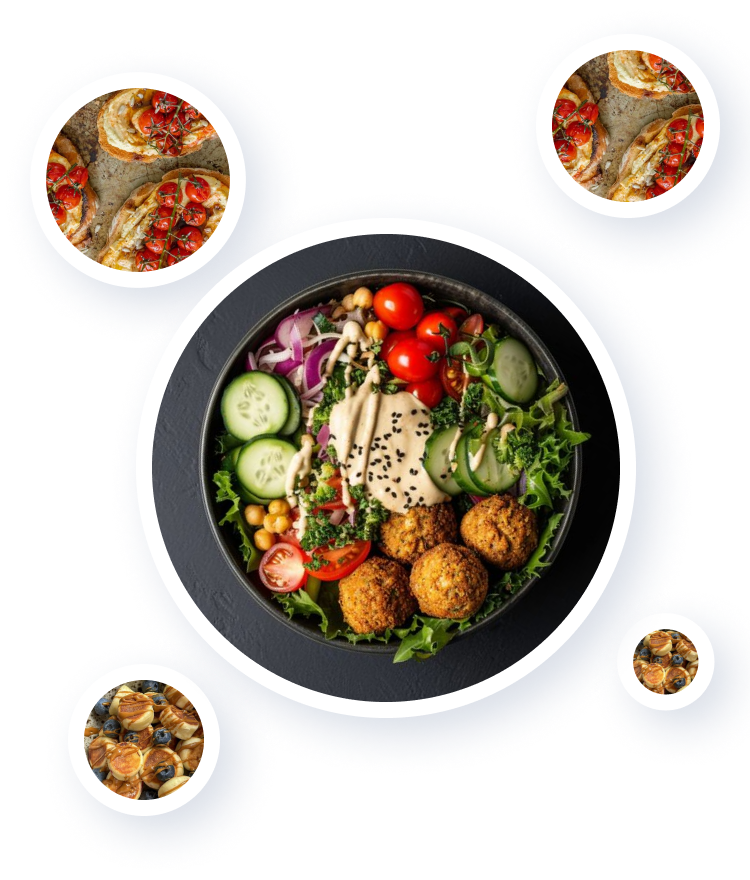
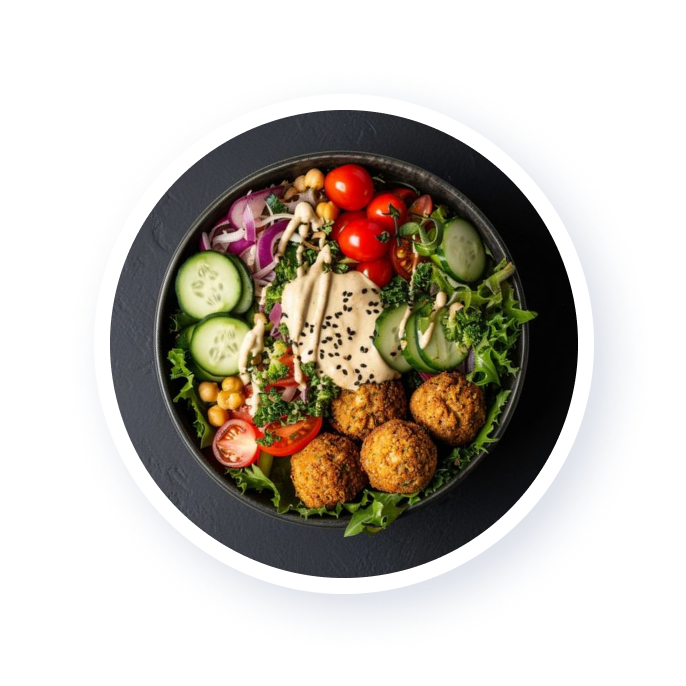
me anim

diff --git a/lib/screens/welcome_screen.dart b/lib/screens/welcome_screen.dart
@@ -1,19 +1,20 @@
 import 'package:diplom/screens/welcome_page_screen.dart';
 import 'package:flutter/material.dart';
+import 'dart:async';
 
 void main() {
-  runApp(const WelcomeScreen ());
+  runApp(const WelcomeScreen());
 }
 
-class WelcomeScreen  extends StatelessWidget {
-  const WelcomeScreen ({super.key});
+class WelcomeScreen extends StatelessWidget {
+  const WelcomeScreen({super.key});
 
   @override
   Widget build(BuildContext context) {
     return MaterialApp(
       theme: ThemeData(scaffoldBackgroundColor: const Color(0xFFFFFFFF)),
       home: const MyHomePage(title: 'Flutter Home Page'),
-         );
+    );
   }
 }
 
@@ -26,39 +27,109 @@ class MyHomePage extends StatefulWidget {
   State<MyHomePage> createState() => _MyHomePageState();
 }
 
-class _MyHomePageState extends State<MyHomePage> {
+class _MyHomePageState extends State<MyHomePage> with SingleTickerProviderStateMixin {
+  late final AnimationController _controller;
+  late final Animation<double> _animation;
+
+  @override
+  void initState() {
+    super.initState();
+
+    _controller = AnimationController(
+      duration: const Duration(seconds: 22),
+      vsync: this,
+    )..repeat();
+
+    _animation = Tween<double>(begin: 0.0, end: 2 * 3.14159).animate(_controller);
+  }
+
+  @override
+  void dispose() {
+    _controller.dispose();
+    super.dispose();
+  }
+
   @override
   Widget build(BuildContext context) {
+    final screenSize = MediaQuery.of(context).size;
+
     return Scaffold(
       body: Column(
-        mainAxisAlignment: MainAxisAlignment.end,
-        crossAxisAlignment: CrossAxisAlignment.center,
         children: [
-          const Padding(
-            padding: EdgeInsets.only(bottom: 10),
-            child: Text(
-              'Easy Cook',
-              style: TextStyle(
-                fontSize: 32.0,
-                color: Color(0xFF9FA5C0),
-                fontWeight: FontWeight.bold,
-                fontStyle: FontStyle.italic,
-                fontFamily: 'Pacifico',
+          // Сначала надпись "Easy Cook"
+          Expanded(
+            flex: 1,
+            child: Align(
+              alignment: Alignment.center,
+              child: Column(
+                mainAxisAlignment: MainAxisAlignment.center,
+                children: [
+                  const Text(
+                    'Easy Cook',
+                    style: TextStyle(
+                      fontSize: 32.0,
+                      color: Color(0xFF9FA5C0),
+                      fontWeight: FontWeight.bold,
+                      fontStyle: FontStyle.italic,
+                      fontFamily: 'Pacifico',
+                    ),
+                  ),
+                  const SizedBox(height: 20),
+                ],
               ),
             ),
           ),
-          Padding(
-            padding: const EdgeInsets.only(top: 10),
-            child: FittedBox(
-              fit: BoxFit.fill,
-              child: Image.asset('asset/image_1.png'), // replace with your image asset
+          // Затем анимации с изображениями
+          Expanded(
+            flex: 3,
+            child: Stack(
+              alignment: Alignment.center,
+              children: [
+                // Главная картинка
+                RotationTransition(
+                  turns: _animation,
+                  child: SizedBox(
+                    width: screenSize.width * 0.4,
+                    height: screenSize.width * 0.4,
+                    child: Image.asset('asset/image_1.png', fit: BoxFit.cover), // замените на свой актив
+                  ),
+                ),
+                // Вращающиеся картинки
+                Align(
+                  alignment: Alignment.bottomLeft,
+                    child: SizedBox(
+                      child: Image.asset('asset/image_2.png', fit: BoxFit.cover), // замените на свой актив
+                    ),
+                  ),
+                Align(
+                  alignment: Alignment.bottomRight,
+                    child: SizedBox(
+                      child: Image.asset('asset/image_3.png', fit: BoxFit.cover), // замените на свой актив
+                    ),
+                  ),
+                Align(
+                  alignment: Alignment.topLeft,
+                    child: SizedBox(
+                      child: Image.asset('asset/image_4.png', fit: BoxFit.cover), // замените на свой актив
+                    ),
+                  ),
+                Align(
+                  alignment: Alignment.topRight,
+                    child: SizedBox(
+                      child: Image.asset('asset/image_5.png', fit: BoxFit.cover), // замените на свой актив
+                    ),
+                  ),
+              ],
             ),
           ),
-          const Center(
+          // Внизу кнопка и дополнительный текст
+          Expanded(
+            flex: 2,
             child: Column(
+              mainAxisAlignment: MainAxisAlignment.end,
               children: [
-                Padding(
-                  padding: EdgeInsets.only(bottom: 10),
+                const Padding(
+                  padding: EdgeInsets.symmetric(vertical: 20),
                   child: Text(
                     'Start Cooking',
                     style: TextStyle(
@@ -68,11 +139,11 @@ class _MyHomePageState extends State<MyHomePage> {
                     ),
                   ),
                 ),
-
-                Padding(
-                  padding: EdgeInsets.only(top: 10),
+                const Padding(
+                  padding: EdgeInsets.symmetric(vertical: 10),
                   child: Text(
                     'Let’s join our community\n    to cook better food!',
+                    textAlign: TextAlign.center,
                     style: TextStyle(
                       fontSize: 17.0,
                       color: Color(0xFF9FA5C0),
@@ -80,34 +151,35 @@ class _MyHomePageState extends State<MyHomePage> {
                     ),
                   ),
                 ),
+                const SizedBox(height: 50.0),
+                Container(
+                  margin: const EdgeInsets.symmetric(horizontal: 15.0),
+                  width: double.infinity,
+                  child: ElevatedButton(
+                    onPressed: () {
+                      Navigator.push(
+                        context,
+                        MaterialPageRoute(builder: (context) => const WelcomePage()),
+                      );
+                    },
+                    style: ElevatedButton.styleFrom(
+                      padding: const EdgeInsets.all(25.0),
+                      backgroundColor: const Color(0xFF5E6ED8),
+                      shape: RoundedRectangleBorder(
+                        borderRadius: BorderRadius.circular(32.0),
+                      ),
+                    ),
+                    child: const Text(
+                      'Get Started',
+                      style: TextStyle(
+                        color: Color(0xFFEFF1F3),
+                        fontSize: 15.0,
+                        fontWeight: FontWeight.bold,
+                      ),
+                    ),
+                  ),
+                ),
               ],
-            ),
-          ),
-          const SizedBox(height: 50.0),
-          Container(
-            margin: const EdgeInsets.only(bottom: 40.0, left: 15.0, right: 15.0),
-            width: double.infinity,
-            child: ElevatedButton(
-              onPressed: () {
-                Navigator.push(context,
-                MaterialPageRoute(builder:
-                (context)=>const WelcomePage()));
-              },
-              style: ElevatedButton.styleFrom(
-                padding:  const EdgeInsets.all(25.0),
-                backgroundColor: const Color(0xFF5E6ED8),
-                shape: RoundedRectangleBorder(
-                  borderRadius: BorderRadius.circular(32.0),
-                ),
-              ),
-              child: const Text(
-                'Get Started',
-                style: TextStyle(
-                  color: Color(0xFFEFF1F3),
-                  fontSize: 15.0,
-                  fontWeight: FontWeight.bold,
-                ),
-              ),
             ),
           ),
         ],
